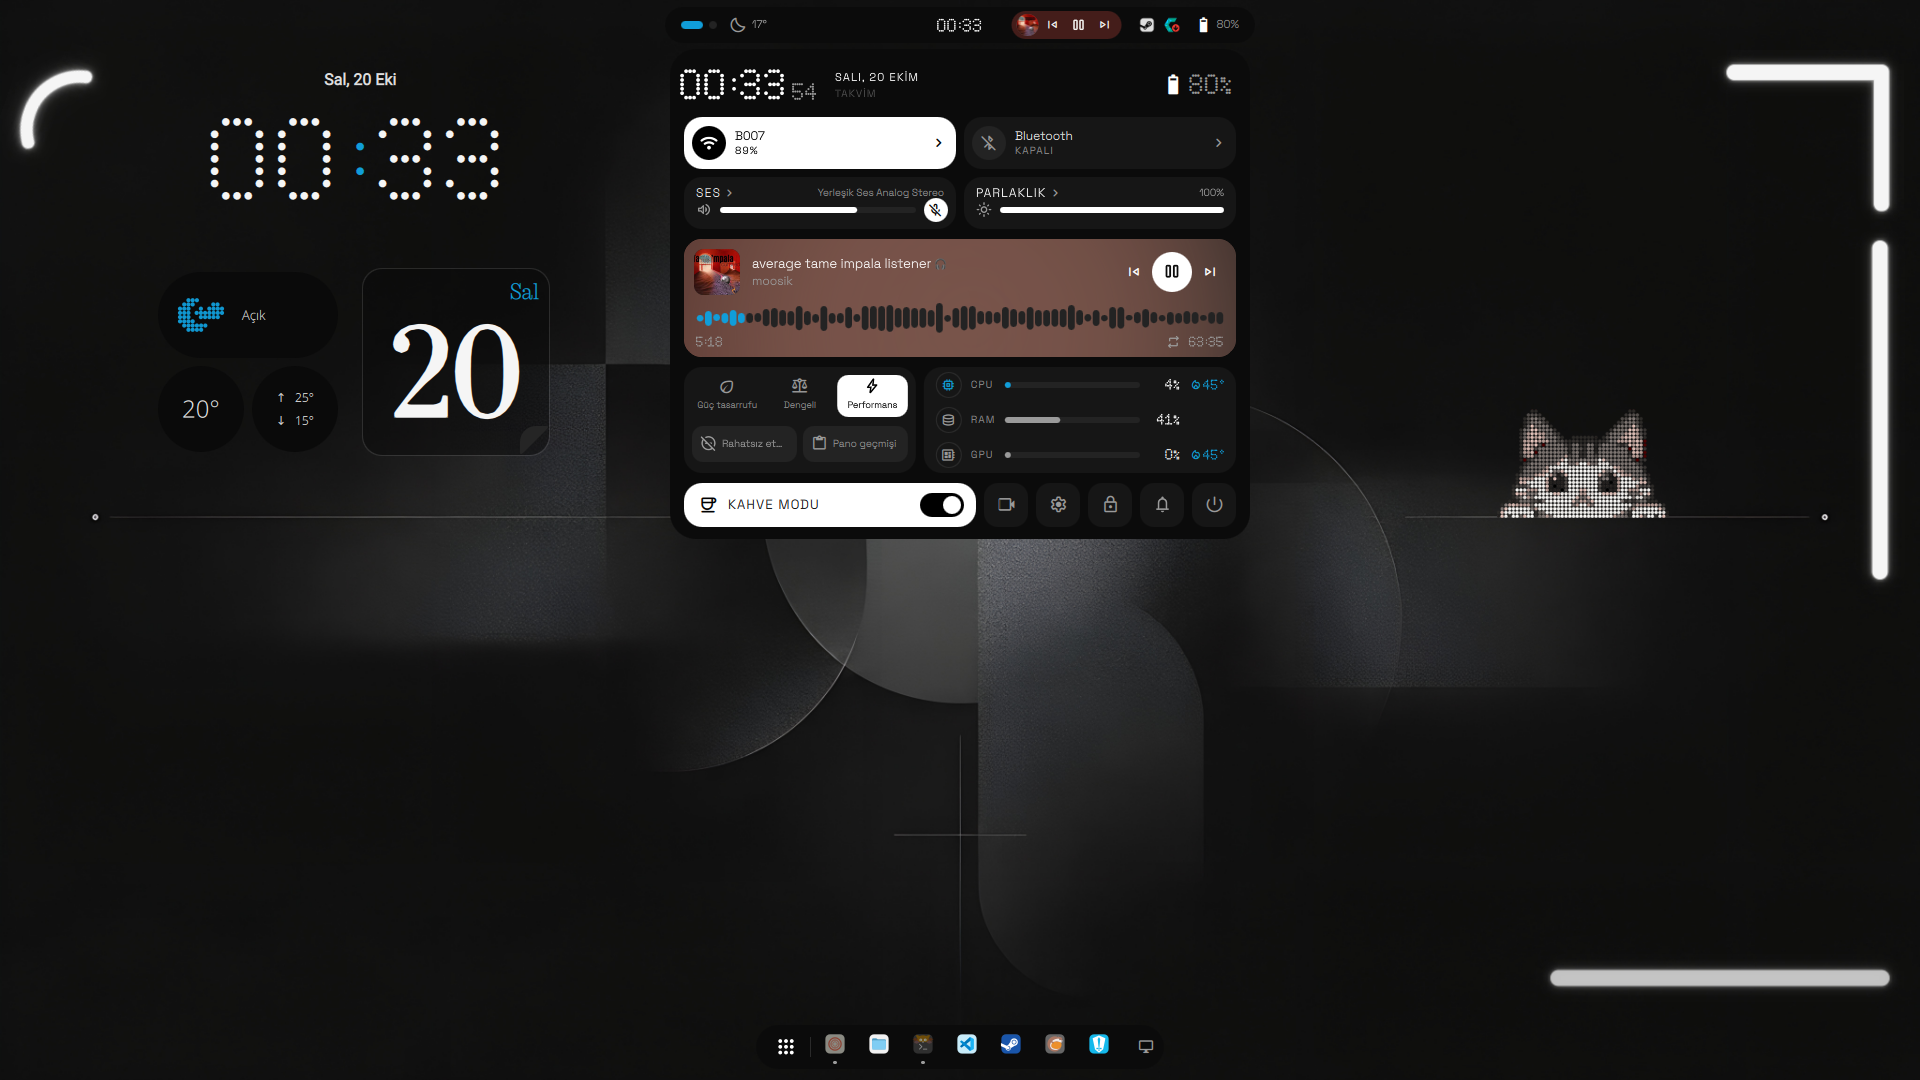
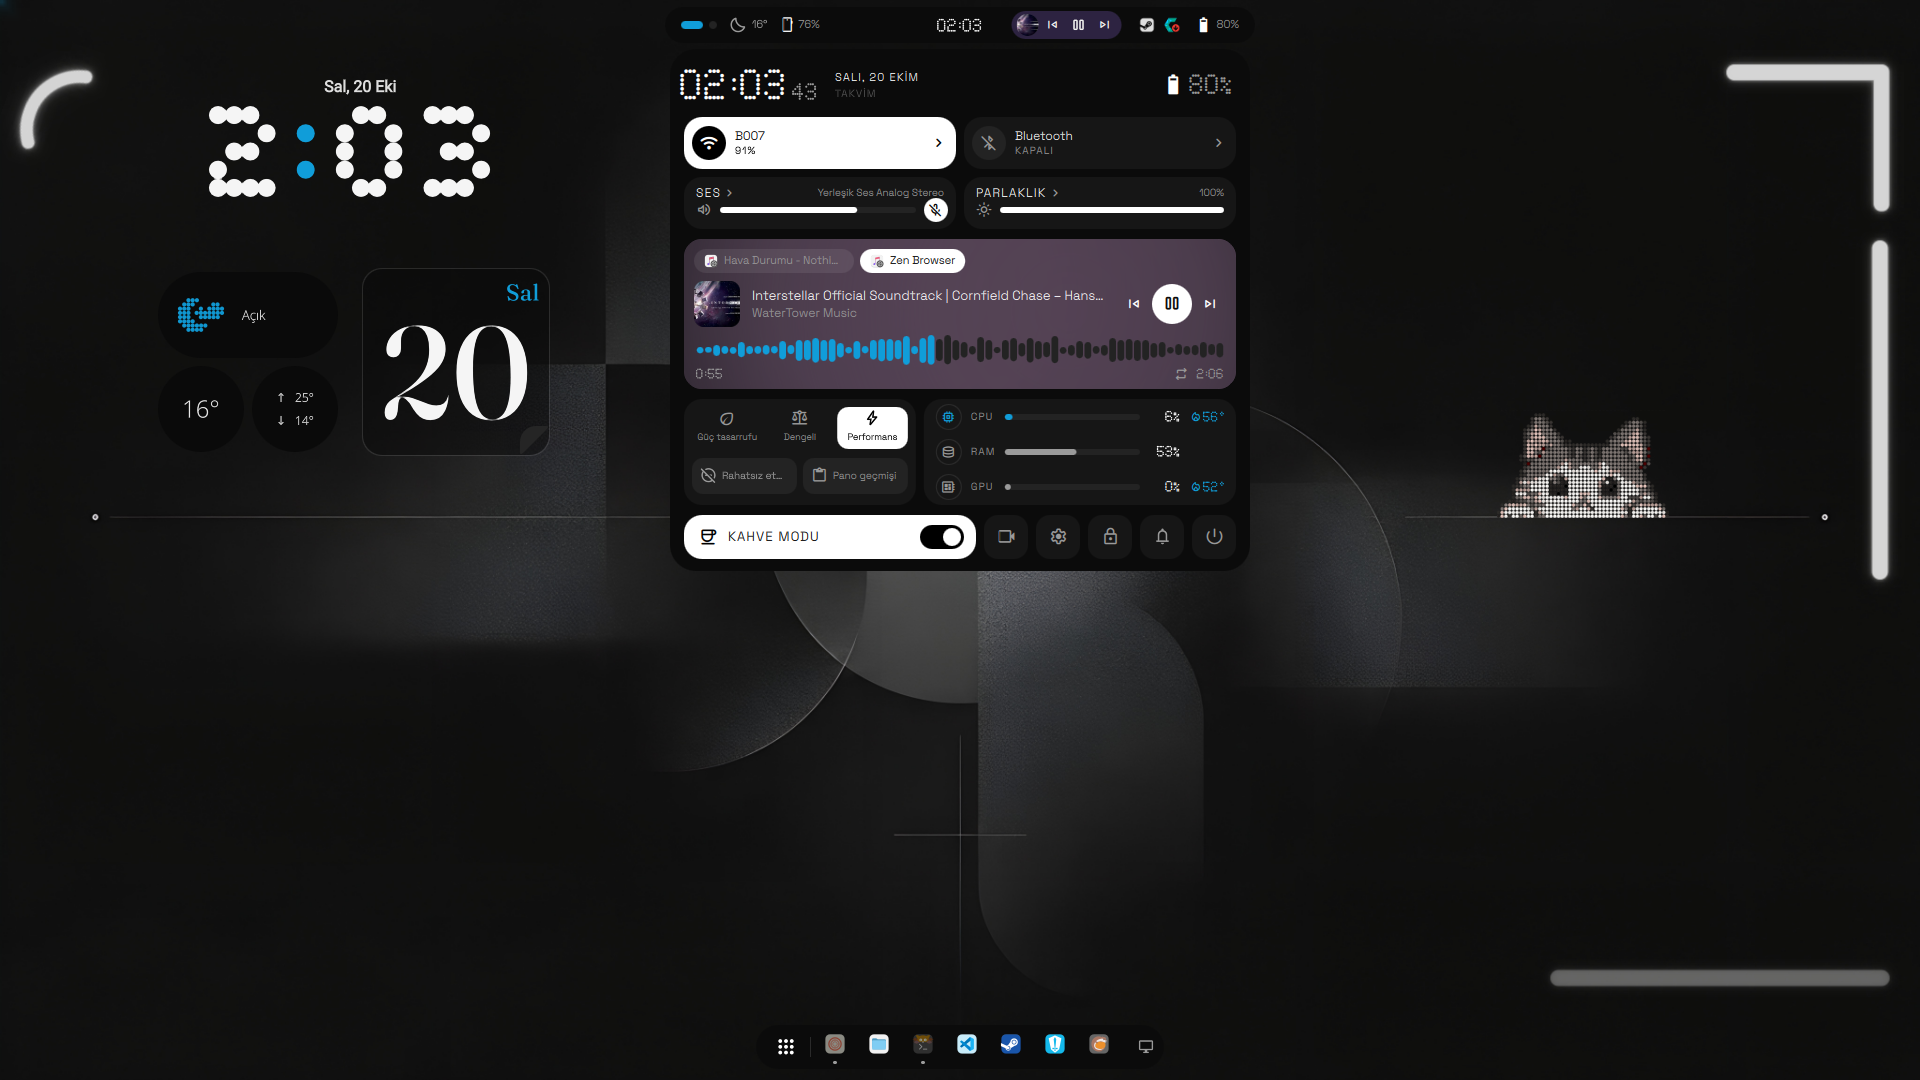
Docs: new screenshots, shorter upstream notes

diff --git a/tests/test_widgets.py b/tests/test_widgets.py
@@ -55,9 +55,6 @@ class WidgetTests(unittest.TestCase):
                     self.assertTrue((qml.parent / path).is_file(), str(qml) + ':' + path)
         self.assertFalse(any(p.is_symlink() for p in PACKAGES.rglob('*')))
 
-    def test_store_rights_are_explicitly_pending(self):
-        self.assertIn('blocked', json.loads((ROOT / 'widgets/UPSTREAM.json').read_text())['storePublication'])
-
     def test_turkish_catalogs_cover_all_translatable_strings(self):
         for package in PACKAGES.iterdir():
             catalog = package / 'contents/locale/tr/LC_MESSAGES' / ('plasma_applet_org.nothingkde.widget.' + package.name + '.mo')

diff --git a/README.md b/README.md
@@ -193,8 +193,8 @@ in the [changelog](CHANGELOG.md). To release, write the version and the changelo
 then push a tag; CI checks the tag against VERSION and publishes the packages:
 
 ```sh
-python3 packaging/set-version.py 0.6.0      # VERSION and every package's metadata
-git commit -am "Release 0.6.0" && git tag v0.6.0 && git push origin main v0.6.0
+python3 packaging/set-version.py 1.1.0      # VERSION and every package's metadata
+git commit -am "Release 1.1.0" && git tag v1.1.0 && git push origin main v1.1.0
 ```
 
 ## Credits
@@ -221,5 +221,4 @@ what was taken from where. This is not an official Nothing product.
 
 ## License
 
-[GPL](LICENSE). Store publication waits on two pieces of upstream artwork, the weather
-icons and the device pictures.
+[GPL](LICENSE).

diff --git a/widgets/packages/clock-analog/UPSTREAM-NOTICE.md b/widgets/packages/clock-analog/UPSTREAM-NOTICE.md
@@ -6,9 +6,6 @@ see contents/ui/glassy/fonts/NothingDots-OFL.txt). No upstream font remains: the
 serif is Nothing Serif (SIL OFL 1.1, from Fraunces), the large clock's dotted, tiles
 and stencil faces are drawn for Nothing KDE (SIL OFL 1.1, see the large clock's
 contents/fonts/NothingClockFaces-OFL.txt) and Roboto is Apache 2.0.
-The weather widget's icons keep upstream's incomplete provenance: do NOT publish them
-to KDE Store until permission or appropriately licensed replacements are obtained.
-The GPL code license does not clear those asset rights.
 
 Some styles are designs from EveryThing-UI by Prince-1652 (MIT; notice in
 contents/ui/glassy/EveryThing-UI-LICENSE.txt), redrawn in contents/ui/everything/.

diff --git a/widgets/packages/clock-digital-large/UPSTREAM-NOTICE.md b/widgets/packages/clock-digital-large/UPSTREAM-NOTICE.md
@@ -6,9 +6,6 @@ see contents/ui/glassy/fonts/NothingDots-OFL.txt). No upstream font remains: the
 serif is Nothing Serif (SIL OFL 1.1, from Fraunces), the large clock's dotted, tiles
 and stencil faces are drawn for Nothing KDE (SIL OFL 1.1, see the large clock's
 contents/fonts/NothingClockFaces-OFL.txt) and Roboto is Apache 2.0.
-The weather widget's icons keep upstream's incomplete provenance: do NOT publish them
-to KDE Store until permission or appropriately licensed replacements are obtained.
-The GPL code license does not clear those asset rights.
 
 Some styles are designs from EveryThing-UI by Prince-1652 (MIT; notice in
 contents/ui/glassy/EveryThing-UI-LICENSE.txt), redrawn in contents/ui/everything/.

diff --git a/widgets/packages/clock-digital/UPSTREAM-NOTICE.md b/widgets/packages/clock-digital/UPSTREAM-NOTICE.md
@@ -6,9 +6,6 @@ see contents/ui/glassy/fonts/NothingDots-OFL.txt). No upstream font remains: the
 serif is Nothing Serif (SIL OFL 1.1, from Fraunces), the large clock's dotted, tiles
 and stencil faces are drawn for Nothing KDE (SIL OFL 1.1, see the large clock's
 contents/fonts/NothingClockFaces-OFL.txt) and Roboto is Apache 2.0.
-The weather widget's icons keep upstream's incomplete provenance: do NOT publish them
-to KDE Store until permission or appropriately licensed replacements are obtained.
-The GPL code license does not clear those asset rights.
 
 Some styles are designs from EveryThing-UI by Prince-1652 (MIT; notice in
 contents/ui/glassy/EveryThing-UI-LICENSE.txt), redrawn in contents/ui/everything/.

diff --git a/widgets/packages/date/UPSTREAM-NOTICE.md b/widgets/packages/date/UPSTREAM-NOTICE.md
@@ -6,9 +6,6 @@ see contents/ui/glassy/fonts/NothingDots-OFL.txt). No upstream font remains: the
 serif is Nothing Serif (SIL OFL 1.1, from Fraunces), the large clock's dotted, tiles
 and stencil faces are drawn for Nothing KDE (SIL OFL 1.1, see the large clock's
 contents/fonts/NothingClockFaces-OFL.txt) and Roboto is Apache 2.0.
-The weather widget's icons keep upstream's incomplete provenance: do NOT publish them
-to KDE Store until permission or appropriately licensed replacements are obtained.
-The GPL code license does not clear those asset rights.
 
 Some styles are designs from EveryThing-UI by Prince-1652 (MIT; notice in
 contents/ui/glassy/EveryThing-UI-LICENSE.txt), redrawn in contents/ui/everything/.

diff --git a/widgets/packages/media/UPSTREAM-NOTICE.md b/widgets/packages/media/UPSTREAM-NOTICE.md
@@ -6,9 +6,6 @@ see contents/ui/glassy/fonts/NothingDots-OFL.txt). No upstream font remains: the
 serif is Nothing Serif (SIL OFL 1.1, from Fraunces), the large clock's dotted, tiles
 and stencil faces are drawn for Nothing KDE (SIL OFL 1.1, see the large clock's
 contents/fonts/NothingClockFaces-OFL.txt) and Roboto is Apache 2.0.
-The weather widget's icons keep upstream's incomplete provenance: do NOT publish them
-to KDE Store until permission or appropriately licensed replacements are obtained.
-The GPL code license does not clear those asset rights.
 
 Some styles are designs from EveryThing-UI by Prince-1652 (MIT; notice in
 contents/ui/glassy/EveryThing-UI-LICENSE.txt), redrawn in contents/ui/everything/.

diff --git a/widgets/packages/photo/UPSTREAM-NOTICE.md b/widgets/packages/photo/UPSTREAM-NOTICE.md
@@ -6,9 +6,6 @@ see contents/ui/glassy/fonts/NothingDots-OFL.txt). No upstream font remains: the
 serif is Nothing Serif (SIL OFL 1.1, from Fraunces), the large clock's dotted, tiles
 and stencil faces are drawn for Nothing KDE (SIL OFL 1.1, see the large clock's
 contents/fonts/NothingClockFaces-OFL.txt) and Roboto is Apache 2.0.
-The weather widget's icons keep upstream's incomplete provenance: do NOT publish them
-to KDE Store until permission or appropriately licensed replacements are obtained.
-The GPL code license does not clear those asset rights.
 
 Some styles are designs from EveryThing-UI by Prince-1652 (MIT; notice in
 contents/ui/glassy/EveryThing-UI-LICENSE.txt), redrawn in contents/ui/everything/.

diff --git a/widgets/packages/weather/UPSTREAM-NOTICE.md b/widgets/packages/weather/UPSTREAM-NOTICE.md
@@ -6,9 +6,6 @@ see contents/ui/glassy/fonts/NothingDots-OFL.txt). No upstream font remains: the
 serif is Nothing Serif (SIL OFL 1.1, from Fraunces), the large clock's dotted, tiles
 and stencil faces are drawn for Nothing KDE (SIL OFL 1.1, see the large clock's
 contents/fonts/NothingClockFaces-OFL.txt) and Roboto is Apache 2.0.
-The weather widget's icons keep upstream's incomplete provenance: do NOT publish them
-to KDE Store until permission or appropriately licensed replacements are obtained.
-The GPL code license does not clear those asset rights.
 
 Some styles are designs from EveryThing-UI by Prince-1652 (MIT; notice in
 contents/ui/glassy/EveryThing-UI-LICENSE.txt), redrawn in contents/ui/everything/.

diff --git a/widgets/packages/phone/UPSTREAM-NOTICE.md b/widgets/packages/phone/UPSTREAM-NOTICE.md
@@ -1,10 +1,7 @@
 Nothing KDE widget. Code: GPL-3.0-or-later.
 It took in the Devices and Battery widget adapted from Jack Faith /
 jaxparrow07/nothing-kde-widgets (GPL-3.0): its filled battery circle
-(contents/ui/components/CircularBatteryProgress.qml) and device pictures
-(contents/device-icons, contents/icons) come from there. The device-picture
-artwork provenance is upstream's; do NOT publish these bundled assets to the
-KDE Store until their rights are confirmed.
+(contents/ui/components/CircularBatteryProgress.qml) comes from there.
 The dot-matrix font is Nothing Dots (SIL OFL 1.1, from Bitcount Single;
 see contents/ui/glassy/fonts/NothingDots-OFL.txt).
 
